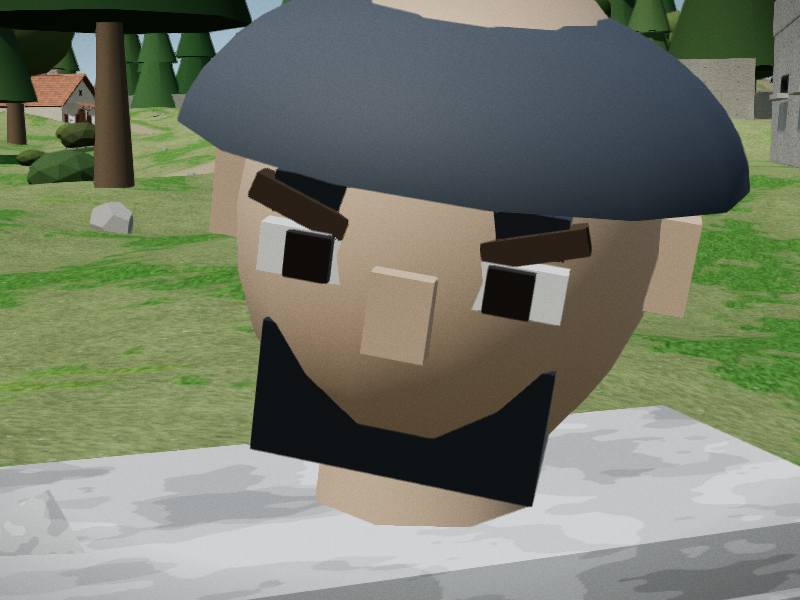
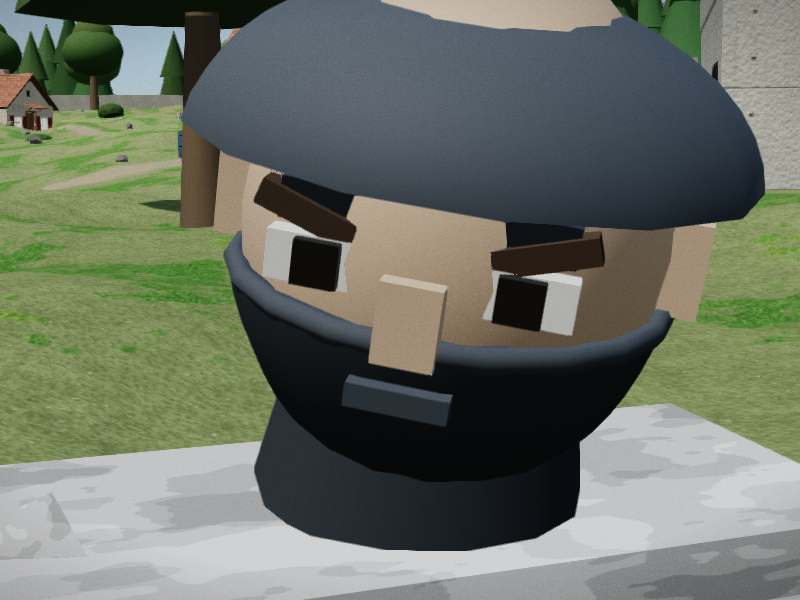
v6.2 : cagoule des bots refaite (coque ajustée, bord, col)
Claude-Session: https://claude.ai/code/session_015MoiAC5KEFPeR3G75qdcFk

diff --git a/MILSIM_FPS.html b/MILSIM_FPS.html
@@ -2348,7 +2348,11 @@ add(up,new THREE.CylinderGeometry(.06,.07,.08,8),skin,0,.63,0);
 const hd=new THREE.Group();hd.position.set(0,.66,0);hd.rotation.order='YXZ';up.add(hd);b.hd=hd;
 const head=add(hd,new THREE.SphereGeometry(.132,14,12),skin,0,.12,.005);head.scale.set(.9,1.1,1);head.userData={bot:b,head:true};botParts.push(head);b.parts.push(head);
 add(hd,BG(.03,.04,.03),skin,0,.1,.13);[-.05,.05].forEach(x=>add(hd,BG(.04,.02,.02),blk,x,.145,.115));
-b.mask=add(hd,BG(.15,.072,.1),blk,0,.036,.052);
+{const mk=new THREE.Group();hd.add(mk);b.mask=mk;const cl=L(0x1d2125,{roughness:.97}),cl2=L(0x2b3036,{roughness:.97});
+const cap=add(mk,new THREE.SphereGeometry(.14,18,12,0,6.2832,1.82,1.322),cl,0,.12,.005);cap.scale.set(.9,1.1,1);
+const bd=add(mk,new THREE.TorusGeometry(.128,.007,6,20),cl2,0,.086,.005);bd.rotation.x=Math.PI/2;bd.scale.set(.93,1.02,1);
+const col=add(mk,new THREE.CylinderGeometry(.084,.098,.075,14),cl,0,-.012,.004);
+add(mk,BG(.05,.012,.012),cl2,0,.062,.138)}
 b.helm=add(hd,new THREE.SphereGeometry(.158,14,10,0,Math.PI*2,0,Math.PI*.47),L(0x3a4a3a,{roughness:.7,side:THREE.DoubleSide}),0,.15,0);
 b.brim=add(hd,new THREE.CylinderGeometry(.25,.25,.014,16),L(0x5a4f2a),0,.185,0);
 b.visM=L(0x0a0a0a,{roughness:.2,metalness:.8});b.visor=add(hd,BG(.23,.065,.05),b.visM,0,.15,.115);

diff --git a/index.html b/index.html
@@ -2348,7 +2348,11 @@ add(up,new THREE.CylinderGeometry(.06,.07,.08,8),skin,0,.63,0);
 const hd=new THREE.Group();hd.position.set(0,.66,0);hd.rotation.order='YXZ';up.add(hd);b.hd=hd;
 const head=add(hd,new THREE.SphereGeometry(.132,14,12),skin,0,.12,.005);head.scale.set(.9,1.1,1);head.userData={bot:b,head:true};botParts.push(head);b.parts.push(head);
 add(hd,BG(.03,.04,.03),skin,0,.1,.13);[-.05,.05].forEach(x=>add(hd,BG(.04,.02,.02),blk,x,.145,.115));
-b.mask=add(hd,BG(.15,.072,.1),blk,0,.036,.052);
+{const mk=new THREE.Group();hd.add(mk);b.mask=mk;const cl=L(0x1d2125,{roughness:.97}),cl2=L(0x2b3036,{roughness:.97});
+const cap=add(mk,new THREE.SphereGeometry(.14,18,12,0,6.2832,1.82,1.322),cl,0,.12,.005);cap.scale.set(.9,1.1,1);
+const bd=add(mk,new THREE.TorusGeometry(.128,.007,6,20),cl2,0,.086,.005);bd.rotation.x=Math.PI/2;bd.scale.set(.93,1.02,1);
+const col=add(mk,new THREE.CylinderGeometry(.084,.098,.075,14),cl,0,-.012,.004);
+add(mk,BG(.05,.012,.012),cl2,0,.062,.138)}
 b.helm=add(hd,new THREE.SphereGeometry(.158,14,10,0,Math.PI*2,0,Math.PI*.47),L(0x3a4a3a,{roughness:.7,side:THREE.DoubleSide}),0,.15,0);
 b.brim=add(hd,new THREE.CylinderGeometry(.25,.25,.014,16),L(0x5a4f2a),0,.185,0);
 b.visM=L(0x0a0a0a,{roughness:.2,metalness:.8});b.visor=add(hd,BG(.23,.065,.05),b.visM,0,.15,.115);

diff --git a/versions/MILSIM_FPS_v6.html b/versions/MILSIM_FPS_v6.html
@@ -2348,7 +2348,11 @@ add(up,new THREE.CylinderGeometry(.06,.07,.08,8),skin,0,.63,0);
 const hd=new THREE.Group();hd.position.set(0,.66,0);hd.rotation.order='YXZ';up.add(hd);b.hd=hd;
 const head=add(hd,new THREE.SphereGeometry(.132,14,12),skin,0,.12,.005);head.scale.set(.9,1.1,1);head.userData={bot:b,head:true};botParts.push(head);b.parts.push(head);
 add(hd,BG(.03,.04,.03),skin,0,.1,.13);[-.05,.05].forEach(x=>add(hd,BG(.04,.02,.02),blk,x,.145,.115));
-b.mask=add(hd,BG(.15,.072,.1),blk,0,.036,.052);
+{const mk=new THREE.Group();hd.add(mk);b.mask=mk;const cl=L(0x1d2125,{roughness:.97}),cl2=L(0x2b3036,{roughness:.97});
+const cap=add(mk,new THREE.SphereGeometry(.14,18,12,0,6.2832,1.82,1.322),cl,0,.12,.005);cap.scale.set(.9,1.1,1);
+const bd=add(mk,new THREE.TorusGeometry(.128,.007,6,20),cl2,0,.086,.005);bd.rotation.x=Math.PI/2;bd.scale.set(.93,1.02,1);
+const col=add(mk,new THREE.CylinderGeometry(.084,.098,.075,14),cl,0,-.012,.004);
+add(mk,BG(.05,.012,.012),cl2,0,.062,.138)}
 b.helm=add(hd,new THREE.SphereGeometry(.158,14,10,0,Math.PI*2,0,Math.PI*.47),L(0x3a4a3a,{roughness:.7,side:THREE.DoubleSide}),0,.15,0);
 b.brim=add(hd,new THREE.CylinderGeometry(.25,.25,.014,16),L(0x5a4f2a),0,.185,0);
 b.visM=L(0x0a0a0a,{roughness:.2,metalness:.8});b.visor=add(hd,BG(.23,.065,.05),b.visM,0,.15,.115);

diff --git a/src/parts/bots.js b/src/parts/bots.js
@@ -30,7 +30,11 @@ add(up,new THREE.CylinderGeometry(.06,.07,.08,8),skin,0,.63,0);
 const hd=new THREE.Group();hd.position.set(0,.66,0);hd.rotation.order='YXZ';up.add(hd);b.hd=hd;
 const head=add(hd,new THREE.SphereGeometry(.132,14,12),skin,0,.12,.005);head.scale.set(.9,1.1,1);head.userData={bot:b,head:true};botParts.push(head);b.parts.push(head);
 add(hd,BG(.03,.04,.03),skin,0,.1,.13);[-.05,.05].forEach(x=>add(hd,BG(.04,.02,.02),blk,x,.145,.115));
-b.mask=add(hd,BG(.15,.072,.1),blk,0,.036,.052);
+{const mk=new THREE.Group();hd.add(mk);b.mask=mk;const cl=L(0x1d2125,{roughness:.97}),cl2=L(0x2b3036,{roughness:.97});
+const cap=add(mk,new THREE.SphereGeometry(.14,18,12,0,6.2832,1.82,1.322),cl,0,.12,.005);cap.scale.set(.9,1.1,1);
+const bd=add(mk,new THREE.TorusGeometry(.128,.007,6,20),cl2,0,.086,.005);bd.rotation.x=Math.PI/2;bd.scale.set(.93,1.02,1);
+const col=add(mk,new THREE.CylinderGeometry(.084,.098,.075,14),cl,0,-.012,.004);
+add(mk,BG(.05,.012,.012),cl2,0,.062,.138)}
 b.helm=add(hd,new THREE.SphereGeometry(.158,14,10,0,Math.PI*2,0,Math.PI*.47),L(0x3a4a3a,{roughness:.7,side:THREE.DoubleSide}),0,.15,0);
 b.brim=add(hd,new THREE.CylinderGeometry(.25,.25,.014,16),L(0x5a4f2a),0,.185,0);
 b.visM=L(0x0a0a0a,{roughness:.2,metalness:.8});b.visor=add(hd,BG(.23,.065,.05),b.visM,0,.15,.115);

diff --git a/docs/AMELIORATIONS.md b/docs/AMELIORATIONS.md
@@ -26,7 +26,7 @@
 - 7 morts : en arrière, en avant, à genoux, pirouette, tir à la tête, assis contre le mur, projeté par une explosion.
 - L'arme tombe au sol (rebonds avec sons, repos, 14 armes au maximum, disparition après 22 s).
 - Les bots occupent les étages et les toits (tireurs d'élite en priorité), y restent postés et redescendent s'ils sont blessés ou inactifs. Simulation : les 4 maisons, montée jusqu'au toit en 4 à 9 s, descente complète.
-- Cagoule des bots réduite et collée au visage (elle dépassait).
+- Cagoule des bots refaite : coque qui épouse la tête, bord de tissu, col autour du cou (elle était un bloc qui dépassait).
 - L'invite « F — Ouvrir la porte » n'apparaît plus depuis un autre niveau que la porte.
 
 **Limites connues (v6)**
